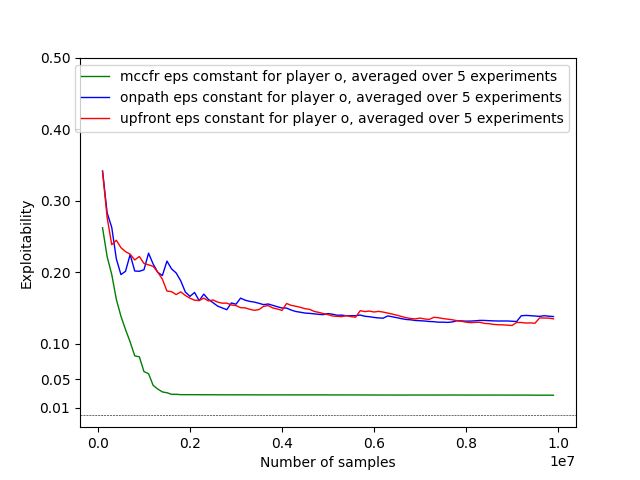
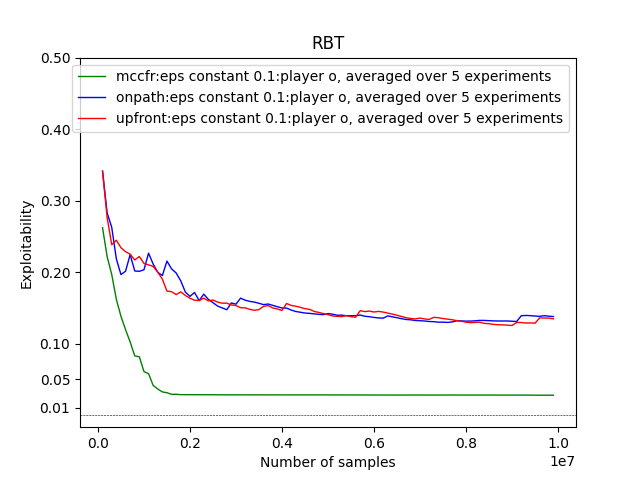
update plots

Changed region(s): [[0.1562, 0.0625, 0.875, 0.2812], [0.0938, 0.1562, 0.125, 0.25]]

diff --git a/plot_exp.py b/plot_exp.py
@@ -63,11 +63,11 @@ if __name__ == "__main__":
                                       1, 1, interpolation=False)
 
     plt.plot(mccfr_x[0:99], mccfr_y[0:99], marker='', linewidth=1, color='green',
-             label='mccfr eps constant for player ' + player + ', averaged over ' + str(onpath_num_experiments) + ' experiments')
+             label='mccfr:eps constant 0.1:player ' + player + ', averaged over ' + str(onpath_num_experiments) + ' experiments')
     plt.plot(onpath_x[0:99], onpath_y[0:99], marker='', linewidth=1, color='blue',
-             label='onpath eps constant for player ' + player + ', averaged over ' + str(onpath_num_experiments) + ' experiments')
+             label='onpath:eps constant 0.1:player ' + player + ', averaged over ' + str(onpath_num_experiments) + ' experiments')
     plt.plot(upfront_x[0:99], upfront_y[0:99], marker='', linewidth=1, color='red',
-             label='upfront eps constant for player ' + player + ', averaged over ' + str(upfront_num_experiments) + ' experiments')
+             label='upfront:eps constant 0.1:player ' + player + ', averaged over ' + str(upfront_num_experiments) + ' experiments')
 
     # horizontal line
     plt.axhline(y=0, color='black', linestyle='--', linewidth=0.4)
@@ -101,12 +101,12 @@ if __name__ == "__main__":
     upfront_x, upfront_y = clean_data("data/eps_decay_step_size=500000_xupfront_flipping_exploitability_log", upfront_num_experiments, 99, 100000,
                                       1, 1, interpolation=False)
 
-    plt.plot(mccfr_x[0:99], mccfr_y[0:99], marker='', linewidth=1, color='darkgreen', linestyle='solid',
-             label='mccfr eps decay for player ' + player + ', averaged over ' + str(onpath_num_experiments) + ' experiments')
-    plt.plot(onpath_x[0:99], onpath_y[0:99], marker='', linewidth=1, color='darkblue', linestyle='solid',
-             label='onpath eps decay for player ' + player + ', averaged over ' + str(onpath_num_experiments) + ' experiments')
-    plt.plot(upfront_x[0:99], upfront_y[0:99], marker='', linewidth=1, color='darkred', linestyle='solid',
-             label='upfront eps decay for player ' + player + ', averaged over ' + str(upfront_num_experiments) + ' experiments')
+    plt.plot(mccfr_x[0:99], mccfr_y[0:99], marker='', linewidth=1, color='green', linestyle='solid',
+             label='mccfr:eps decay:player ' + player + ', averaged over ' + str(onpath_num_experiments) + ' experiments')
+    plt.plot(onpath_x[0:99], onpath_y[0:99], marker='', linewidth=1, color='blue', linestyle='solid',
+             label='onpath:eps decay:player ' + player + ', averaged over ' + str(onpath_num_experiments) + ' experiments')
+    plt.plot(upfront_x[0:99], upfront_y[0:99], marker='', linewidth=1, color='red', linestyle='solid',
+             label='upfront:eps decay:player ' + player + ', averaged over ' + str(upfront_num_experiments) + ' experiments')
 
     # horizontal line
     plt.axhline(y=0, color='black', linestyle='--', linewidth=0.4)
@@ -127,11 +127,11 @@ if __name__ == "__main__":
                                       1, 1, interpolation=False, player='o')
 
     plt.plot(mccfr_x[0:99], mccfr_y[0:99], marker='', linewidth=1, color='green',
-             label='mccfr eps comstant for player ' + player + ', averaged over ' + str(onpath_num_experiments) + ' experiments')
+             label='mccfr:eps constant 0.1:player ' + player + ', averaged over ' + str(onpath_num_experiments) + ' experiments')
     plt.plot(onpath_x[0:99], onpath_y[0:99], marker='', linewidth=1, color='blue',
-             label='onpath eps constant for player ' + player + ', averaged over ' + str(onpath_num_experiments) + ' experiments')
+             label='onpath:eps constant 0.1:player ' + player + ', averaged over ' + str(onpath_num_experiments) + ' experiments')
     plt.plot(upfront_x[0:99], upfront_y[0:99], marker='', linewidth=1, color='red',
-             label='upfront eps constant for player ' + player + ', averaged over ' + str(upfront_num_experiments) + ' experiments')
+             label='upfront:eps constant 0.1:player ' + player + ', averaged over ' + str(upfront_num_experiments) + ' experiments')
 
     # horizontal line
     plt.axhline(y=0, color='black', linestyle='--', linewidth=0.4)
@@ -139,6 +139,7 @@ if __name__ == "__main__":
     plt.xlabel('Number of samples')
     plt.ylabel('Exploitability')
     plt.legend()
+    plt.title("RBT")
     #plt.show()
     plt.savefig("player_o_eps=0.1.png")
     plt.close()
@@ -164,12 +165,12 @@ if __name__ == "__main__":
     upfront_x, upfront_y = clean_data("data/eps_decay_step_size=500000_oupfront_flipping_exploitability_log", upfront_num_experiments, 99, 100000,
                                       1, 1, interpolation=False, player='o')
 
-    plt.plot(mccfr_x[0:99], mccfr_y[0:99], marker='', linewidth=1, color='darkgreen', linestyle='solid',
-             label='mccfr decay eps for player ' + player + ', averaged over ' + str(onpath_num_experiments) + ' experiments')
-    plt.plot(onpath_x[0:99], onpath_y[0:99], marker='', linewidth=1, color='darkblue', linestyle='solid',
-             label='onpath decay eps for player ' + player + ', averaged over ' + str(onpath_num_experiments) + ' experiments')
-    plt.plot(upfront_x[0:99], upfront_y[0:99], marker='', linewidth=1, color='darkred', linestyle='solid',
-             label='upfront decay eps for player' + player + ', averaged over ' + str(upfront_num_experiments) + ' experiments')
+    plt.plot(mccfr_x[0:99], mccfr_y[0:99], marker='', linewidth=1, color='green', linestyle='solid',
+             label='mccfr:decay eps:player ' + player + ', averaged over ' + str(onpath_num_experiments) + ' experiments')
+    plt.plot(onpath_x[0:99], onpath_y[0:99], marker='', linewidth=1, color='blue', linestyle='solid',
+             label='onpath:decay eps:player ' + player + ', averaged over ' + str(onpath_num_experiments) + ' experiments')
+    plt.plot(upfront_x[0:99], upfront_y[0:99], marker='', linewidth=1, color='red', linestyle='solid',
+             label='upfront:decay eps:player ' + player + ', averaged over ' + str(upfront_num_experiments) + ' experiments')
 
     # horizontal line
     plt.axhline(y=0, color='black', linestyle='--', linewidth=0.4)
@@ -177,6 +178,7 @@ if __name__ == "__main__":
     plt.xlabel('Number of samples')
     plt.ylabel('Exploitability')
     plt.legend()
+    plt.title("RBT")
     #plt.show()
     plt.savefig("player_o_eps_decay_step=500000.png")
     plt.close()
